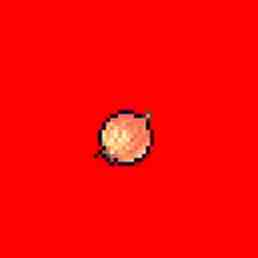
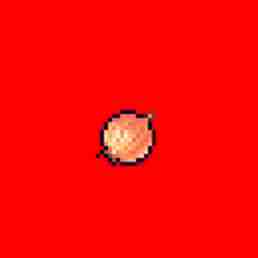
Shifted mean of normal distribution for canvas offset towards the max

Changed region(s): [[0.3411, 0.4031, 0.6202, 0.6512]]

diff --git a/main.py b/main.py
@@ -30,12 +30,13 @@ def upscale_bilinear(image, scale_factor):
 
 def increase_canvas(image, new_dimensions, max_random_offset=0):
     enlarged_image = np.zeros((*new_dimensions, 4), dtype=np.uint8)
-    
+   
     yoff = (new_dimensions[0] - image.shape[0]) // 2
     xoff = (new_dimensions[1] - image.shape[1]) // 2
     if max_random_offset > 0:
-        random_yoff = int(random.gauss(0, max_random_offset / 2))  
-        random_xoff = int(random.gauss(0, max_random_offset / 2))
+        mean_offset = max_random_offset / 2
+        random_yoff = int(random.gauss(mean_offset, max_random_offset / 2))  
+        random_xoff = int(random.gauss(mean_offset, max_random_offset / 2))
         yoff += random_yoff
         xoff += random_xoff
 
@@ -116,7 +117,7 @@ if __name__ == "__main__":
     scale_factor = 2
     input_image = cv2.imread(input_image_path, cv2.IMREAD_UNCHANGED)
     upscaled_image = upscale_nearest(input_image, scale_factor)
-    canvas_scaled_image = increase_canvas(upscaled_image, (129, 129), 5)
+    canvas_scaled_image = increase_canvas(upscaled_image, (129, 129), 3)
 
     red_filled_image = add_background(canvas_scaled_image, (0,0,255))  # Red color
     red_filled_image_bicubic = add_jpeg_artifacts(upscale_bicubic(red_filled_image, 2), 20)
